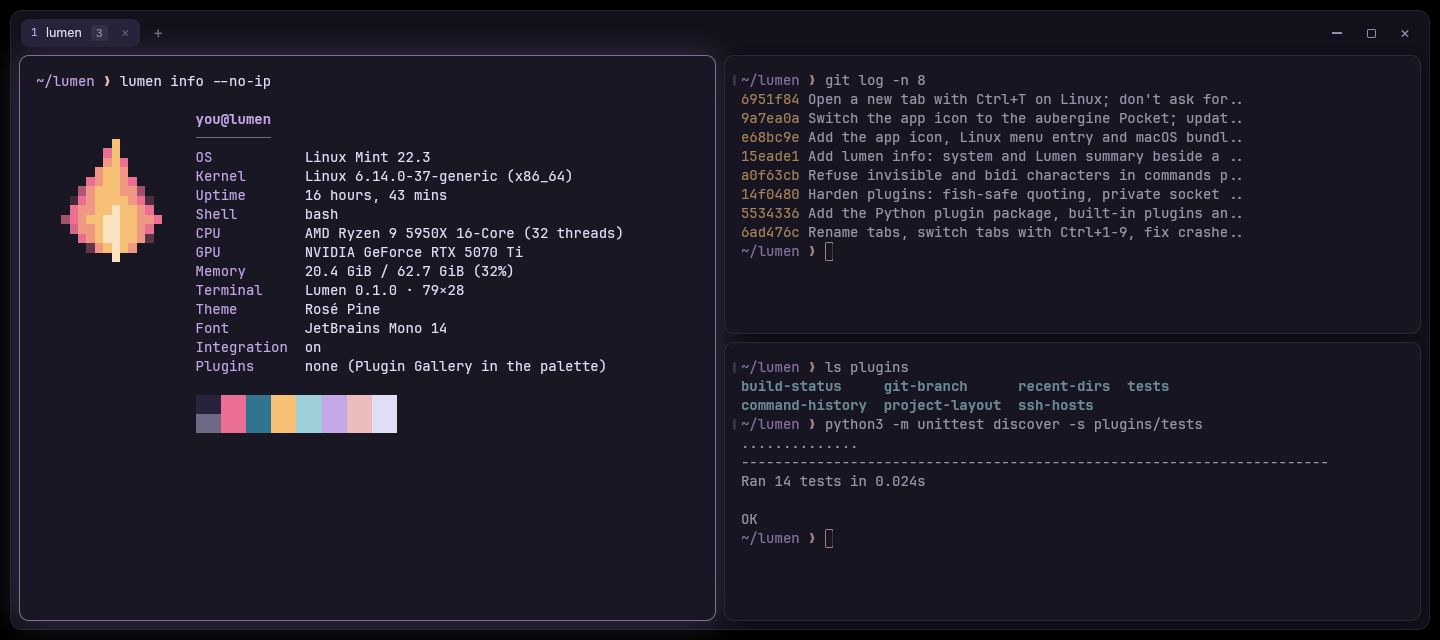
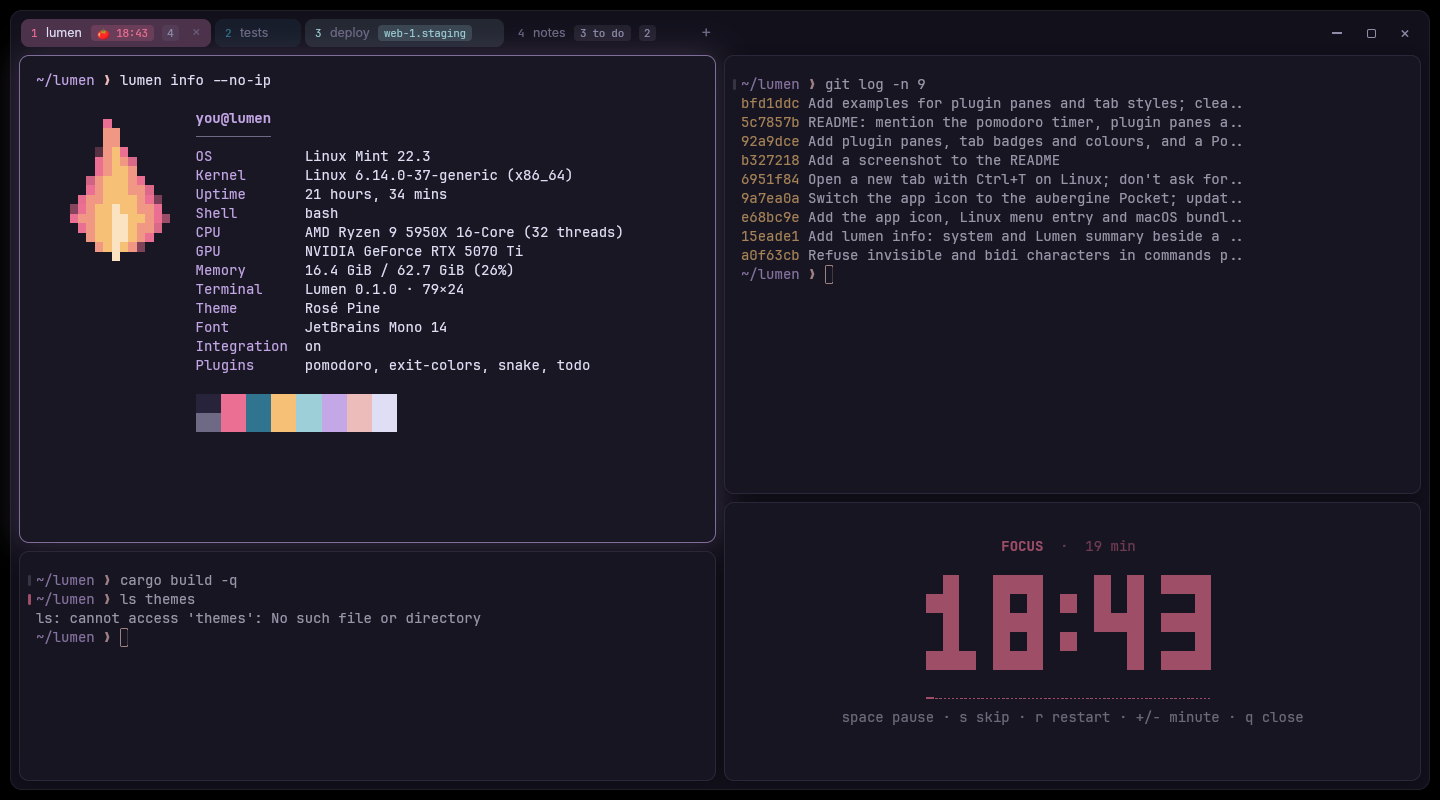
New screenshots: a main shot showing tab badges, plugin panes and the pomodoro timer, and a README gallery of features
Also: tab badges shorten with an ellipsis (or hide) in crowded tab bars
instead of spilling into the next tab, and the pomodoro label follows
minutes added or taken off.

diff --git a/src/workspace.rs b/src/workspace.rs
@@ -323,6 +323,22 @@ impl TabColor {
     }
 }
 
+/// Room a badge of `chars` characters takes in a tab, gap included.
+fn badge_width(chars: usize) -> f32 {
+    8.0 + 12.0 + 6.4 * chars as f32
+}
+
+/// `badge` as it fits in `room`: whole, shortened with "…", or not at all
+/// when not even three characters fit.
+fn fit_badge(badge: &str, room: f32) -> Option<String> {
+    let n = badge.chars().count();
+    if badge_width(n) <= room {
+        return Some(badge.to_string());
+    }
+    let fits = ((room - badge_width(0)) / 6.4).floor();
+    (fits >= 3.0).then(|| badge.chars().take(fits as usize - 1).chain(['…']).collect())
+}
+
 /// `a` with `t` of `b` mixed in.
 fn mix(a: Hsla, b: Hsla, t: f32) -> Hsla {
     let (a, b): (Rgba, Rgba) = (a.into(), b.into());
@@ -1299,9 +1315,11 @@ impl Workspace {
                 .map(|ok| if ok { theme.ansi[2] } else { theme.ansi[1] });
             let fixed = fixed + if attention.is_some() { 15.0 } else { 0.0 };
             let tint = tab.color.map(|c| c.resolve(theme));
-            let badge = tab.badge.clone();
-            // Monospace, so a ticking countdown doesn't jiggle the title.
-            let fixed = fixed + badge.as_ref().map_or(0.0, |b| 8.0 + 12.0 + 6.4 * b.chars().count() as f32);
+            // Monospace, so a ticking countdown doesn't jiggle the title. In a
+            // narrow tab the badge gives way too, keeping a little of the
+            // title: shortened with an ellipsis, or left out.
+            let badge = tab.badge.as_deref().and_then(|b| fit_badge(b, width - fixed - 16.0));
+            let fixed = fixed + badge.as_ref().map_or(0.0, |b| badge_width(b.chars().count()));
             let title_width = (width - fixed).max(16.0);
             let title = truncate_title(title, title_width, cx);
             div()
@@ -2401,6 +2419,13 @@ mod tests {
         assert!(!reorder(&mut tabs, 1, 1));
         assert!(!reorder(&mut tabs, 1, 4));
         assert_eq!(tabs, ['d', 'b', 'c', 'a']);
+    }
+
+    #[test]
+    fn badges_shorten_or_go_in_narrow_tabs() {
+        assert_eq!(fit_badge("19:42", 200.0).as_deref(), Some("19:42"));
+        assert_eq!(fit_badge("web-1.staging", badge_width(6)).as_deref(), Some("web-1…"));
+        assert_eq!(fit_badge("web-1.staging", badge_width(2)), None);
     }
 
     #[test]

diff --git a/plugins/tests/test_builtins.py b/plugins/tests/test_builtins.py
@@ -249,3 +249,14 @@ class PomodoroTests(unittest.TestCase):
         self.p["count_session"]()
         self.p["count_session"]()
         self.assertEqual(self.p["today_count"](), 2)
+
+
+class PomodoroLabelTests(unittest.TestCase):
+    def test_the_label_follows_minutes_added_or_taken_off(self):
+        p = load("pomodoro")
+        t = [0.0]
+        timer = p["Timer"]("classic", now=lambda: t[0])
+        timer.adjust(-6 * 60)
+        strip = re.compile(r"\x1b\[[0-9;]*m")
+        head = strip.sub("", timer.render(80, 12, today=0)[1])
+        self.assertIn("19 min", head)

diff --git a/plugins/pomodoro/main.py b/plugins/pomodoro/main.py
@@ -146,7 +146,7 @@ class Timer:
         elif self.ready:
             ansi, status = "34", "press space to start"
         else:
-            status = f"{self.minutes(self.phase)} min"
+            status = f"{round(self.length / 60)} min"
         left = self.remaining()
         done = 1 - left / self.length if self.length else 1
         count = f"today {today} 🍅" if today else ""

diff --git a/README.md b/README.md
@@ -6,7 +6,7 @@ A fast, good-looking terminal for Linux and macOS, built with Rust,
 [GPUI](https://gpui.rs) (Zed's GPU UI framework) and
 [`alacritty_terminal`](https://crates.io/crates/alacritty_terminal).
 
-<img src="assets/screenshot.png" alt="Lumen with three panes: lumen info beside a pixel flame, a git log, and a passing test run">
+<img src="assets/screenshot.png" alt="Lumen with four tabs and three panes: lumen info beside a pixel flame, a git log, a shell with a failed command marked in red, and a pomodoro countdown. The tabs carry badges and tints: a tomato countdown on the first, a blue web-1.staging badge, and 3 to do">
 
 ## Features
 
@@ -74,6 +74,31 @@ A fast, good-looking terminal for Linux and macOS, built with Rust,
   can't read it
 - Bundled JetBrains Mono and Inter, so it looks the same everywhere
 - A commented `config.toml` that applies changes as soon as you save it
+
+## Screenshots
+
+**Tabs with badges and colours**, set by plugins and scripts: a pomodoro
+countdown, a staging server, what's left to do.
+
+<img src="assets/screenshots/tabs.png" alt="The tab bar: a red-tinted tab with a tomato 18:43 countdown, a green tests tab, a deploy tab with a blue web-1.staging badge, and a notes tab badged 3 to do">
+
+<table>
+<tr>
+<td width="50%"><b>Pomodoro Timer</b>, a built-in plugin: a big countdown in a strip under your work, with the time on the tab.<br><br><img src="assets/screenshots/pomodoro.png" alt="A git log above a pomodoro pane showing FOCUS, 13 min, and a large 10:25 countdown with a progress bar"></td>
+<td width="50%"><b>Plugin panes</b>: a todo list drawn by a plugin, beside your shell, with what's left on the tab.<br><br><img src="assets/screenshots/todo.png" alt="A git log beside a todo list pane: one item ticked off and three left"></td>
+</tr>
+<tr>
+<td><b>Command palette</b>: every action, theme and plugin command, fuzzy-searched.<br><br><img src="assets/screenshots/palette.png" alt="The command palette filtered to pomodoro: Stop, Start, Pause or Resume Pomodoro and its plugin log"></td>
+<td><b>Plugin Gallery</b>: the built-in plugins, off until you turn them on.<br><br><img src="assets/screenshots/gallery.png" alt="The Plugin Gallery listing Recent Directories, Command History, Switch Git Branch, SSH to Host, Project Layouts, Build Status and Pomodoro Timer, which is on"></td>
+</tr>
+<tr>
+<td><b>Find in scrollback</b>, with every match highlighted.<br><br><img src="assets/screenshots/find.png" alt="A long git log with the find bar searching for plugin: 8 of 8 matches highlighted"></td>
+<td><b><code>watch_pane.py</code></b>, an example script: <code>watch</code> in a pane of its own, with changes highlighted.<br><br><img src="assets/screenshots/watch.png" alt="A shell above a watch pane rerunning date, free and uptime every second, with the changed lines highlighted"></td>
+</tr>
+<tr>
+<td colspan="2"><b>Snake</b>, an example plugin: a game in a tab of its own, drawn in a plugin pane.<br><br><img src="assets/screenshots/snake.png" alt="A snake game in its own tab: score 9, paused, with the score on the tab" width="50%"></td>
+</tr>
+</table>
 
 ## Build
 
@@ -645,6 +670,7 @@ socket API is on.
 | `assets/icons/`        | The app icon: Linux `hicolor` sizes, macOS `Lumen.icns`, SVG sources |
 | `assets/linux/`        | The `.desktop` menu entry                                 |
 | `assets/screenshot.png` | The screenshot at the top of this README                |
+| `assets/screenshots/`  | The rest of the README's screenshots                    |
 | `install.sh`           | Build and install this checkout for testing (menu entry, icon, `Lumen.app`) |
 | `scripts/`             | `install-linux.sh` (menu entry and icons), `bundle-macos.sh` (`Lumen.app`) |
 | `examples/`            | Scripts using `lumen msg` and the socket API, and example plugins |
